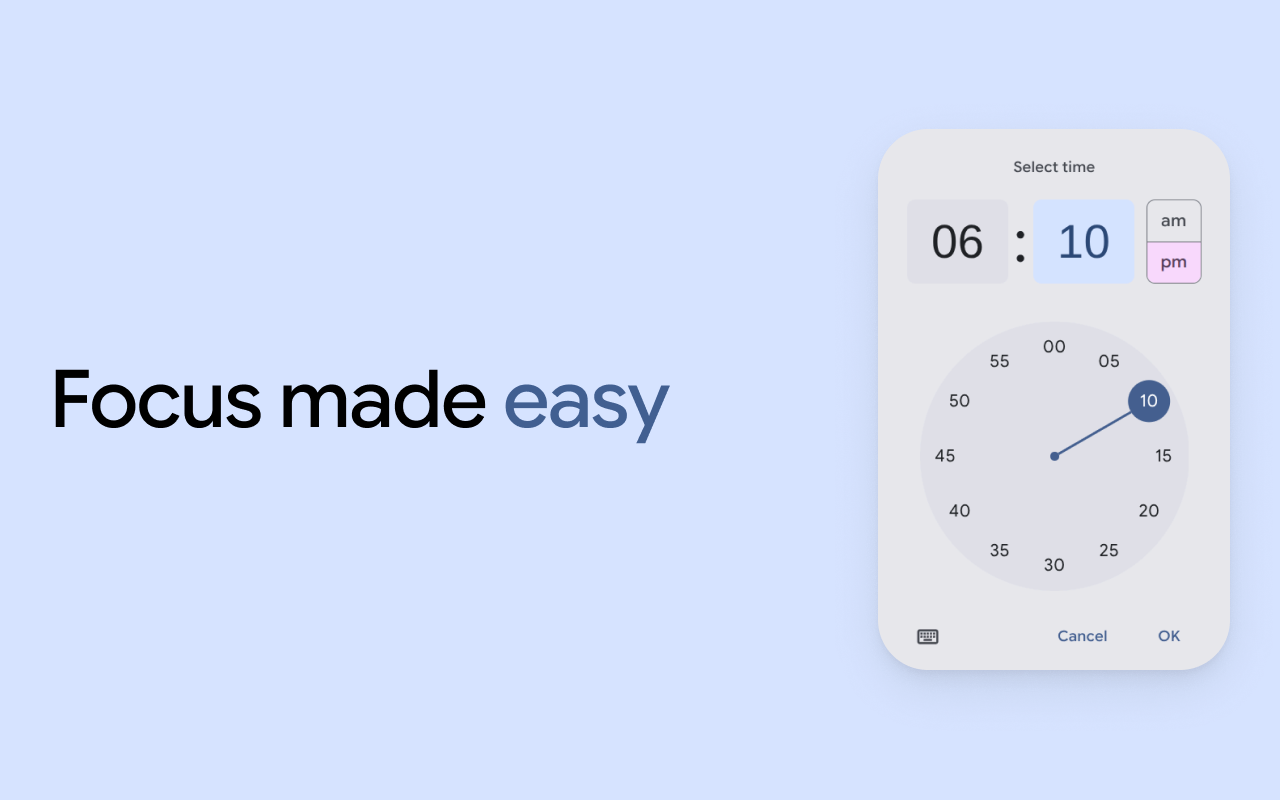
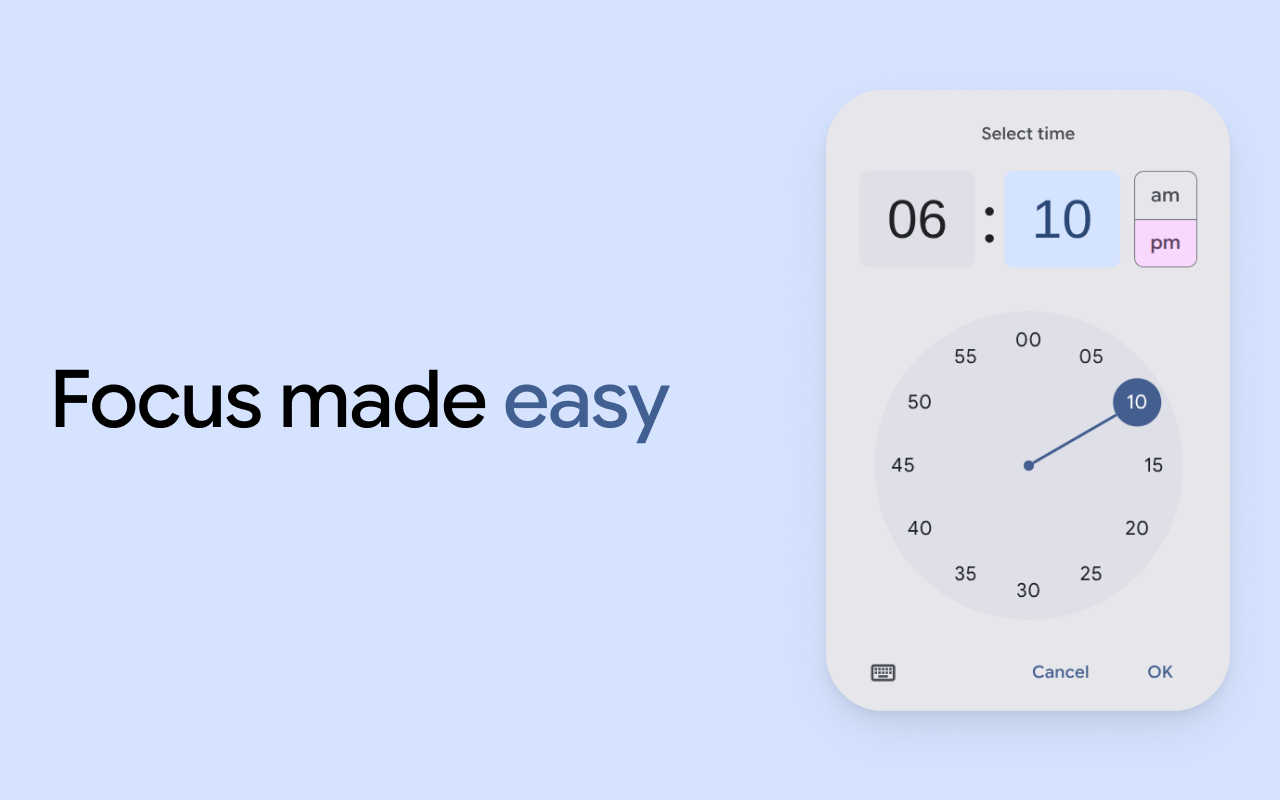
feat: focus badging

diff --git a/src/utils/badge.ts b/src/utils/badge.ts
@@ -1,0 +1,36 @@
+import { timeToString } from './time';
+
+let timer: number | null = null;
+
+function clearTimer() {
+	if (timer !== null) {
+		clearInterval(timer);
+		timer = null;
+	}
+}
+
+export async function setFocusBadge() {
+	const { focusTime } = await chrome.storage.local.get('focusTime');
+
+	chrome.action.setBadgeBackgroundColor({ color: '#D6E3FF' });
+	chrome.action.setBadgeTextColor({ color: '#274777' });
+
+	const timeRemaining = timeToString(focusTime.blockTime - Date.now(), true);
+	await chrome.action.setBadgeText({ text: timeRemaining });
+
+	timer = setInterval(async () => {
+		const msRemaining = focusTime.blockTime - Date.now();
+		if (msRemaining <= 0) {
+			await clearFocusBadge();
+			return;
+		}
+
+		const timeRemaining = timeToString(msRemaining, true);
+		await chrome.action.setBadgeText({ text: timeRemaining });
+	}, 5000);
+}
+
+export async function clearFocusBadge() {
+	clearTimer();
+	await chrome.action.setBadgeText({ text: '' });
+}

diff --git a/src/utils/time.ts b/src/utils/time.ts
@@ -1,5 +1,5 @@
-export function timeToString(ms: number): string {
-	if (ms <= 0) return '0 seconds';
+export function timeToString(ms: number, short: boolean = false): string {
+	if (ms <= 0) return '0s';
 
 	const totalSeconds = Math.floor(ms / 1000);
 	const hours = Math.floor(totalSeconds / 3600);
@@ -7,10 +7,13 @@ export function timeToString(ms: number): string {
 	const seconds = totalSeconds % 60;
 
 	if (hours > 0) {
+		if (short) return `${hours}h`;
 		return `${hours}h ${minutes}m ${seconds}s`;
 	} else if (minutes > 0) {
+		if (short) return `${minutes}m`;
 		return `${minutes}m ${seconds}s`;
 	} else {
+		if (short) return `${seconds}s`;
 		return `${seconds}s`;
 	}
 }

diff --git a/src/worker.ts b/src/worker.ts
@@ -1,3 +1,4 @@
+import { clearFocusBadge, setFocusBadge } from './utils/badge';
 import { endFocus, getFocusTime, saveTimeFocused } from './utils/focus';
 
 chrome.runtime.onInstalled.addListener(async () => {
@@ -9,5 +10,19 @@ chrome.alarms.onAlarm.addListener(async (alarm) => {
 		const focusTime = await getFocusTime();
 		await endFocus();
 		if (focusTime) await saveTimeFocused(focusTime);
+		chrome.action.setBadgeText({ text: '' });
+	}
+});
+
+chrome.runtime.onMessage.addListener(async (message) => {
+	switch (message) {
+		case 'block-focus': {
+			await setFocusBadge();
+			break;
+		}
+		case 'unblock-focus': {
+			await clearFocusBadge();
+			break;
+		}
 	}
 });

diff --git a/src/utils/focus.ts b/src/utils/focus.ts
@@ -8,6 +8,8 @@ export async function setFocusTime(blockTime: number) {
 		focusTime: { blockTime: blockTime, startTime: Date.now() } as FocusData,
 	});
 
+	await chrome.runtime.sendMessage('block-focus');
+
 	const tabs = await chrome.tabs.query({});
 	for (const tab of tabs) {
 		try {
